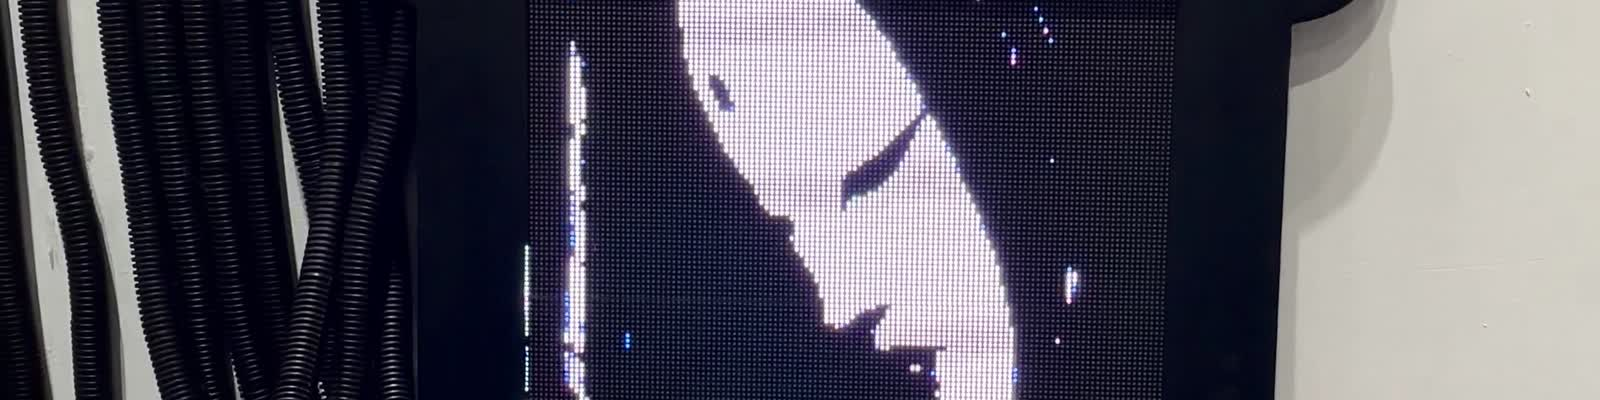
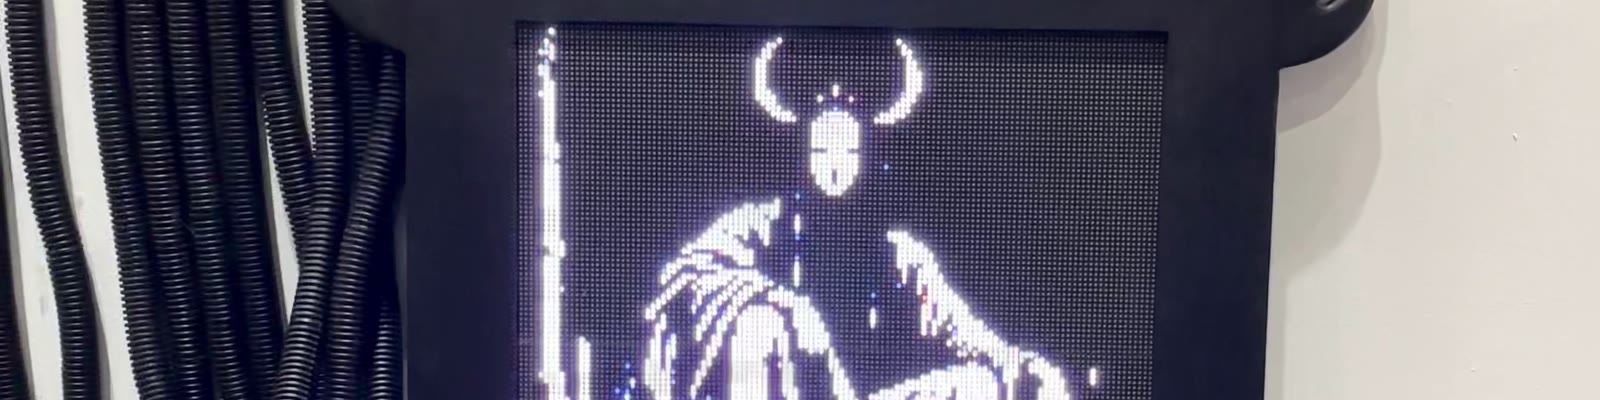
Use the real work for the Patreon images, and park the animation shop
The tier plates I generated were black squares with the site's pixel face and
TIER 1 / SIGNAL / $3 on them, three identical bar the word. Yuga called them out
and he is right: that is exactly what auto-generated assets look like, and there
is no reason to draw a substitute for work that already exists.

Tiers are now three frames off the real panel, one loop each: SANSARA 2, NIGHT
WALKER, ORCA. LED grain, real colour, visible matrix.

Cover recut too. The old crop was a band of lit matrix with the subject cut off
at the top and a third of the frame empty wall. The new one has the horned frame
whole, the horned figure lit on it, cable left and workshop right, with the head
near centre so Patreon's mobile crop keeps it.

Also parks the next piece of work: MONETIZATION_PLAN.md section 5b, selling the
animations that currently go to Threads and Instagram and then vanish. Questions
to settle (what a unit is, price band, what the buyer may do with it) and what to
build, in order. It is the missing middle between a $659 panel and a $3 tier.

diff --git a/docs/PATREON_LAUNCH.md b/docs/PATREON_LAUNCH.md
@@ -24,21 +24,21 @@ paid. A8 is publishing.
 > are looking for and what it does, not a pixel-perfect path. If a label reads
 > differently on your screen, go by the description.
 
-Everything the page needs is in `docs/patreon-assets/`, drawn in the same DOS
-face as the site so the Patreon and ghostline.live read as one thing:
+Everything the page needs is in `docs/patreon-assets/`. All of it is the actual
+work, shot on the panel. Nothing here is drawn to stand in for it:
 
 | File | Where it goes |
 |---|---|
-| `patreon-cover-dos-1600x400.png` | **Page cover.** CGA plate: `C:\GHOSTLINE` above the dot-matrix wordmark, `LED PANELS . MYSTRA . ART` under it |
+| `patreon-banner-1600x400.jpg` | **Page cover.** The horned frame with the horned figure lit on the matrix, cable on the left, workshop wall on the right |
 | `patreon-avatar-512.jpg` | Profile picture, the lit panel |
-| `tier-1-signal.png` | SIGNAL tier image |
-| `tier-2-witness.png` | WITNESS tier image |
-| `tier-3-patron.png` | PATRON tier image |
-| `patreon-banner-1600x400.jpg` | The photo cover, if you ever want the panel itself up there instead |
+| `tier-1-signal.jpg` | SIGNAL image: SANSARA 2 |
+| `tier-2-witness.jpg` | WITNESS image: NIGHT WALKER |
+| `tier-3-patron.jpg` | PATRON image: ORCA |
 
-The avatar stays photographic on purpose. Patreon shrinks it to a small circle
-in feeds and comment threads, and the lit panel survives that; pixel type at
-40px does not.
+The first pass at these was generated: black plates with the site's pixel face,
+TIER 1 / SIGNAL / $3, three of them identical bar the word. It looked like what
+it was. Your own frames carry LED grain, real colour and a visible matrix, and
+no drawn substitute beats that on a page asking people to fund the work.
 
 ---
 
@@ -86,7 +86,7 @@ From **Part B, section B1**:
 - Page name
 - The "is creating" line
 - Profile picture: `patreon-avatar-512.jpg`
-- Cover image: `patreon-cover-dos-1600x400.png`
+- Cover image: `patreon-banner-1600x400.jpg`
 - About section: the long text in **B2**
 
 If the uploader crops the images differently than you like, say so and I will
@@ -105,9 +105,9 @@ For each tier set:
 
 - **Name** and **monthly price** (3, 10, 25 USD)
 - **Description**: paste the block
-- **Tier image**: `tier-1-signal.png`, `tier-2-witness.png`, `tier-3-patron.png`.
-  Same CGA plates as the cover, so the tier row reads as three screens of one
-  machine.
+- **Tier image**: `tier-1-signal.jpg`, `tier-2-witness.jpg`, `tier-3-patron.jpg`.
+  Three different loops on the real panel, so the tier row is three pieces of
+  work rather than three price labels.
 - **Benefits**: if Patreon insists on a benefits list, keep it to one short line
   per tier, pulled from the block. Do not let the form talk you into inventing
   deliverables to fill the field. An empty benefits list is better than a
@@ -339,6 +339,12 @@ Panels and every other way to help: ghostline.live/support.html
 ---
 
 ## B6. After Patreon is live
+
+**First thing once it is published:** go to `MONETIZATION_PLAN.md` section 5b,
+selling the animations. That is the parked one, and it is the nearest money.
+
+Then:
+
 
 1. Mirror the same three tiers on **Boosty** for cards Patreon will not take. Ask
    me for the Russian copy, it should not be a literal translation.

diff --git a/docs/MONETIZATION_PLAN.md b/docs/MONETIZATION_PLAN.md
@@ -162,6 +162,55 @@ fit of anything in this table.
 
 ---
 
+## 5b. NEXT AFTER PATREON: selling the animations
+
+Parked here deliberately. Do not start it until the Patreon page is published,
+but come straight back to it after, because it is the closest thing to money
+sitting unclaimed.
+
+**The situation.** Yuga already draws animations for Threads and Instagram
+continuously. They are made, posted once, and then they are gone. They cost
+nothing extra to sell, and there is no shop for them anywhere.
+
+**Open questions to settle first, before building anything:**
+
+1. **What is a unit?** A single looping GIF? A pack of five? A pack by theme?
+   Selling one loop at a time and selling a set of ten are different products
+   with different pages.
+2. **What does it cost?** Yuga's own instinct was a dollar for simple GIFs,
+   maybe five, maybe ten for the bigger ones. All three are defensible and they
+   imply different businesses:
+   - **$1 to $3.** Impulse. Needs volume and a storefront that can carry a
+     hundred items without looking empty.
+   - **$5 to $10.** The normal price for a pixel-art asset pack. Fewer sales,
+     less bookkeeping, and it does not cheapen the panels.
+   - **Pay what you want, $3 minimum.** Gumroad and itch both support it. Lets
+     the people who want to pay more do it, which on small art shops is a real
+     share of revenue.
+   Leaning toward the middle one for packs, with a couple of single loops at $1
+   as the way in. Decide with Yuga, do not assume.
+3. **What is the buyer actually getting?** Resolution, format (GIF, MP4, frame
+   sequence, sprite sheet), and crucially **what they are allowed to do with
+   it**. Personal use only, or can they put it on a stream, a shirt, a game?
+   That line decides the price more than the file size does.
+
+**What to build, in order:**
+
+1. **A page on ghostline.live.** Same DOS treatment as the panels page, a grid
+   of loops, each playing. The site already has everything needed: the video
+   handling from `panels.html`, the CGA skin, the support-links config.
+2. **Checkout.** Gumroad or Lemon Squeezy, one product per pack, link from each
+   tile. Same decision that is already pending for the panel card checkout, so
+   settle it once and use it for both.
+3. **A back catalogue.** Pull what already exists off Threads and Instagram,
+   re-export clean, and fill the page. A shop with six items reads as abandoned.
+
+**Why it fits.** It is the missing middle of the whole plan: the panels are $659
+and Patreon is $3 a month, and there is nothing in between for someone who likes
+the work and wants to own a piece of it for the price of a coffee.
+
+---
+
 ## 6. Sequence
 
 **Next 30 days — remove friction, start the recurring layer**
